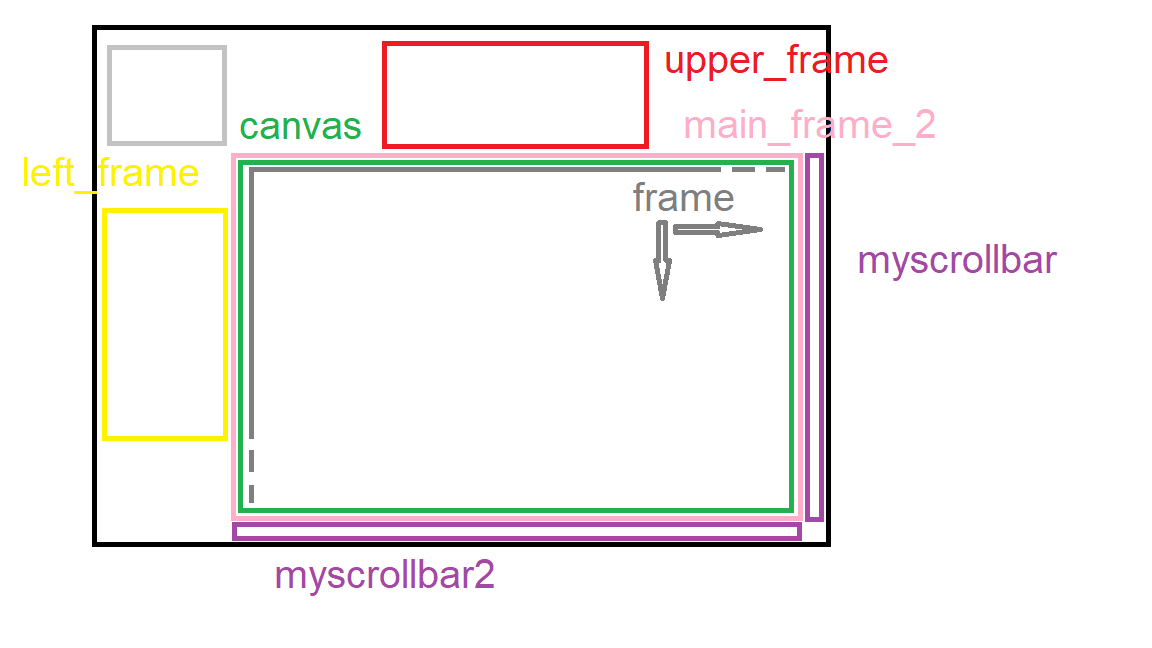
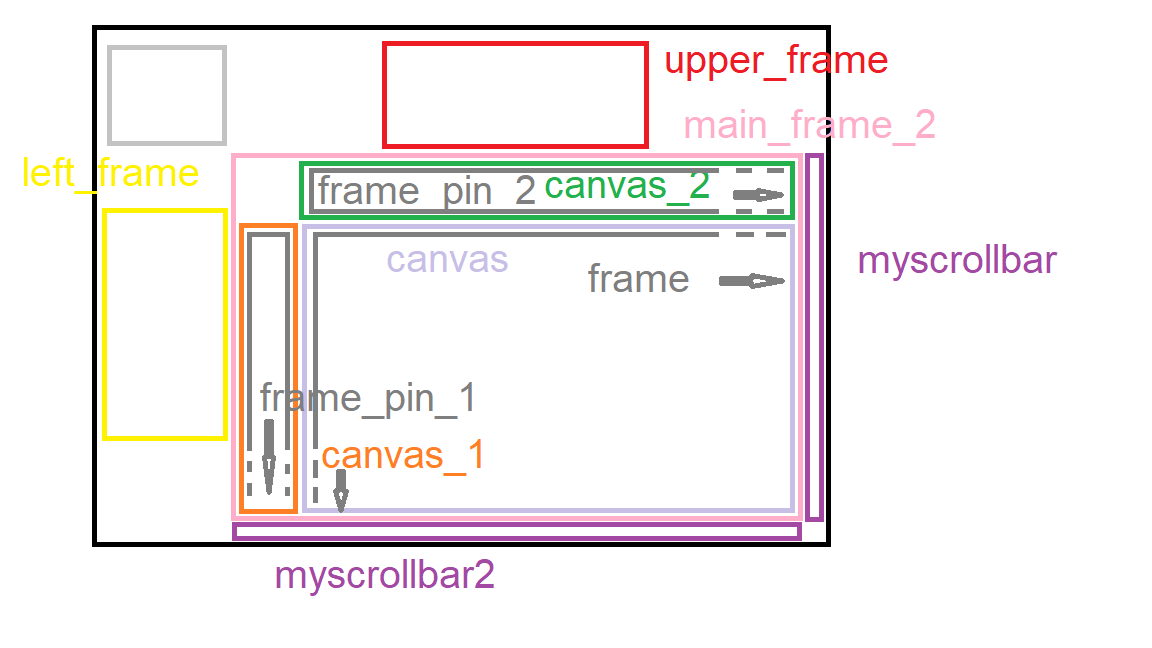
fixed scrollable pin label

Changed region(s): [[0.1875, 0.2469, 0.6875, 0.8025], [0.625, 0.4012, 0.6875, 0.463], [0.1875, 0.1852, 0.3125, 0.216]]

diff --git a/FrontEnd/grid_matrix.py b/FrontEnd/grid_matrix.py
@@ -10,33 +10,46 @@ class GridMatrix():
     def __init__(self, _main_frame, _continuity = {}, _n_pin_1=0, _n_pin_2=0, _conn_1_name="--", _conn_2_name="--", _app=None):
         self.app = _app
         self.main_frame = _main_frame #Container = {canvas[main_frame_2 (frame+upper_frame+left_frame)+myscrollbar]}
+        self.main_frame_2 = tk.Frame(self.main_frame, bg = "blue", height=210, width=289 ) #scollable frame
         self.myscrollbar = tk.Scrollbar(self.main_frame,orient="vertical")#,command=self.canvas.yview)
         self.myscrollbar2 = tk.Scrollbar(self.main_frame,orient="horizontal")
-
-        self.main_frame_2 = tk.Frame(self.main_frame, bg = "blue", height=210, width=289 ) #scollable frame
         self.canvas = tk.Canvas(self.main_frame_2, bg = "green", yscrollcommand=self.myscrollbar.set, xscrollcommand=self.myscrollbar2.set, height=210, width=289)
+        self.canvas_1 = tk.Canvas(self.main_frame_2, bg = "purple", yscrollcommand=self.myscrollbar.set, height=210, width=20)
+        self.canvas_2 = tk.Canvas(self.main_frame_2, bg = "white", xscrollcommand=self.myscrollbar2.set, height=20, width=289)
         self.main_frame_2.grid_propagate(0)
         self.canvas.grid_propagate(0)
+        self.canvas_1.grid_propagate(0)
+        self.canvas_2.grid_propagate(0)
         #self.main_frame_2.configure(height=1000,width=500)
         #self.main_frame_2.configure(yscrollcommand=self.myscrollbar.set)
-        self.myscrollbar.config(command = self.canvas.yview)
-        self.myscrollbar2.config(command = self.canvas.xview)
+        self.myscrollbar.config(command = self.scroll_y)
+        self.myscrollbar2.config(command = self.scroll_x)
         self.frame = tk.Frame(self.canvas, bg = "pink")
+        self.frame_pin_1 = tk.Frame(self.canvas_1, bg = "white")
+        self.frame_pin_2 = tk.Frame(self.canvas_2, bg = "brown")
         self.upper_frame = tk.Frame(self.main_frame, bg = "red")
         self.left_frame = tk.Frame(self.main_frame, bg = "yellow")
-        self.myfunction(None)
+        #
         self.frame.bind("<Configure>",self.myfunction)
+        self.frame_pin_1.bind("<Configure>",self.myfunction_1)
+        self.frame_pin_2.bind("<Configure>",self.myfunction_2)
+        #self.btn_prova = tk.Button(self.frame_pin_2,text="ok")
+        #self.btn_prova.pack()
         self.canvas.create_window((0,0),window=self.frame,anchor='nw') #devo usare questo altrimenti se uso pack() per self.frame non funzionano le scroll
+        self.canvas_1.create_window((0,0),window=self.frame_pin_1,anchor='nw') #devo usare questo altrimenti se uso pack() per self.frame non funzionano le scroll
+        self.canvas_2.create_window((0,0),window=self.frame_pin_2,anchor='nw') #devo usare questo altrimenti se uso pack() per self.frame non funzionano le scroll
         #self.canvas.configure(yscrollcommand=self.myscrollbar.set)
-        
+
+        #self.myfunction(None)
         self.main_frame_2.grid(row=1,column=1)
         '''
         self.canvas.pack(side="left", fill="both", expand=True)
         self.myscrollbar.pack(side="left",fill="y")'''
         self.canvas.grid(row=1,column=1)
+        self.canvas_1.grid(row=1,column=0)
+        self.canvas_2.grid(row=0,column=1)
         self.myscrollbar.grid(row=1,column=2, sticky="ns")
         self.myscrollbar2.grid(row=2,column=1, sticky="we")
-
         
         #self.continuity = {}
         self.continuity = _continuity
@@ -66,7 +79,7 @@ class GridMatrix():
             if _row == self._n_pin_1:
                 _bg=self.frame.cget("bg")
                 _relief="sunken"
-            self.labels_pin_index_1.append(tk.Label(self.frame, text=str(_row+1),  borderwidth=1, relief=_relief, bg=_bg, width=2, height=1,))
+            self.labels_pin_index_1.append(tk.Label(self.frame_pin_1, text=str(_row+1),  borderwidth=1, relief=_relief, bg=_bg, width=2, height=1,))
             self.labels_pin_index_1[_row].grid(row=_row+1, column=0, sticky="nsew")
         _bg="white"
         _relief="solid"
@@ -74,7 +87,7 @@ class GridMatrix():
             if _col == self._n_pin_2:
                 _bg=self.frame.cget("bg")
                 _relief="sunken"
-            self.labels_pin_index_2.append(tk.Label(self.frame, text=str(_col+1),  borderwidth=1, relief=_relief, bg=_bg, width=2, height=1,))
+            self.labels_pin_index_2.append(tk.Label(self.frame_pin_2, text=str(_col+1),  borderwidth=1, relief=_relief, bg=_bg, width=2, height=1,))
             self.labels_pin_index_2[_col].grid(row=0, column=_col+1)
         
         #riempimento label centro
@@ -162,9 +175,29 @@ class GridMatrix():
         self.render()
         print("rendered")
         '''
+
+
+    def scroll_x(self, *args):
+        print("scroll_x")
+        self.canvas.xview(*args)
+        self.canvas_1.xview(*args)
+        self.canvas_2.xview(*args)
+    
+    def scroll_y(self,*args):
+        print("scroll_y")
+        self.canvas.yview(*args)
+        self.canvas_1.yview(*args)
+        self.canvas_2.yview(*args)
+
     def myfunction(self, event):
         print("myfunction")
         self.canvas.configure(scrollregion=self.canvas.bbox("all"))#,width=200,height=200)
+    def myfunction_1(self, event):
+            print("myfunction_1")
+            self.canvas_1.configure(scrollregion=self.canvas_1.bbox("all"))#,width=200,height=200)
+    def myfunction_2(self, event):
+            print("myfunction_2")
+            self.canvas_2.configure(scrollregion=self.canvas_2.bbox("all"))#,width=200,height=200)
 
     def update_values(self, _n_pin_1, _n_pin_2, _conn_1_name, _conn_2_name, _continuity = None):
         if _continuity:
